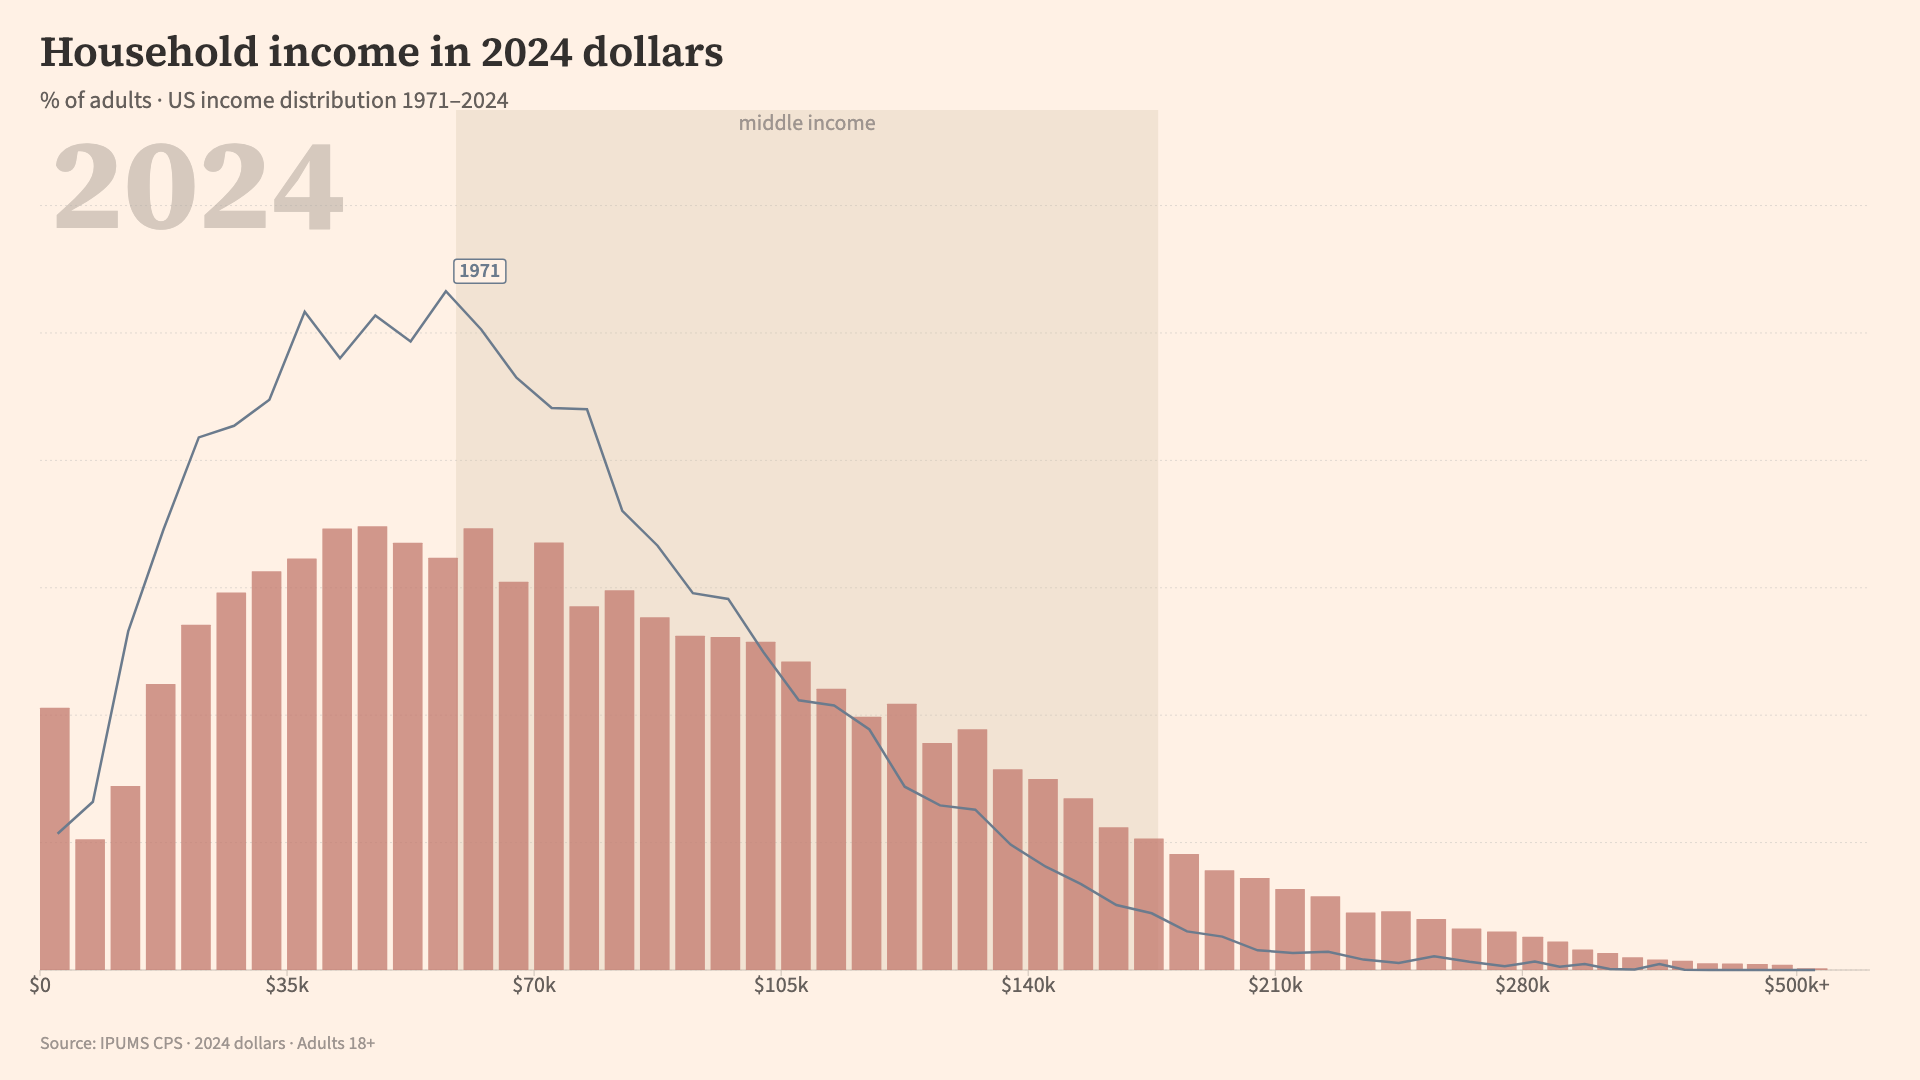
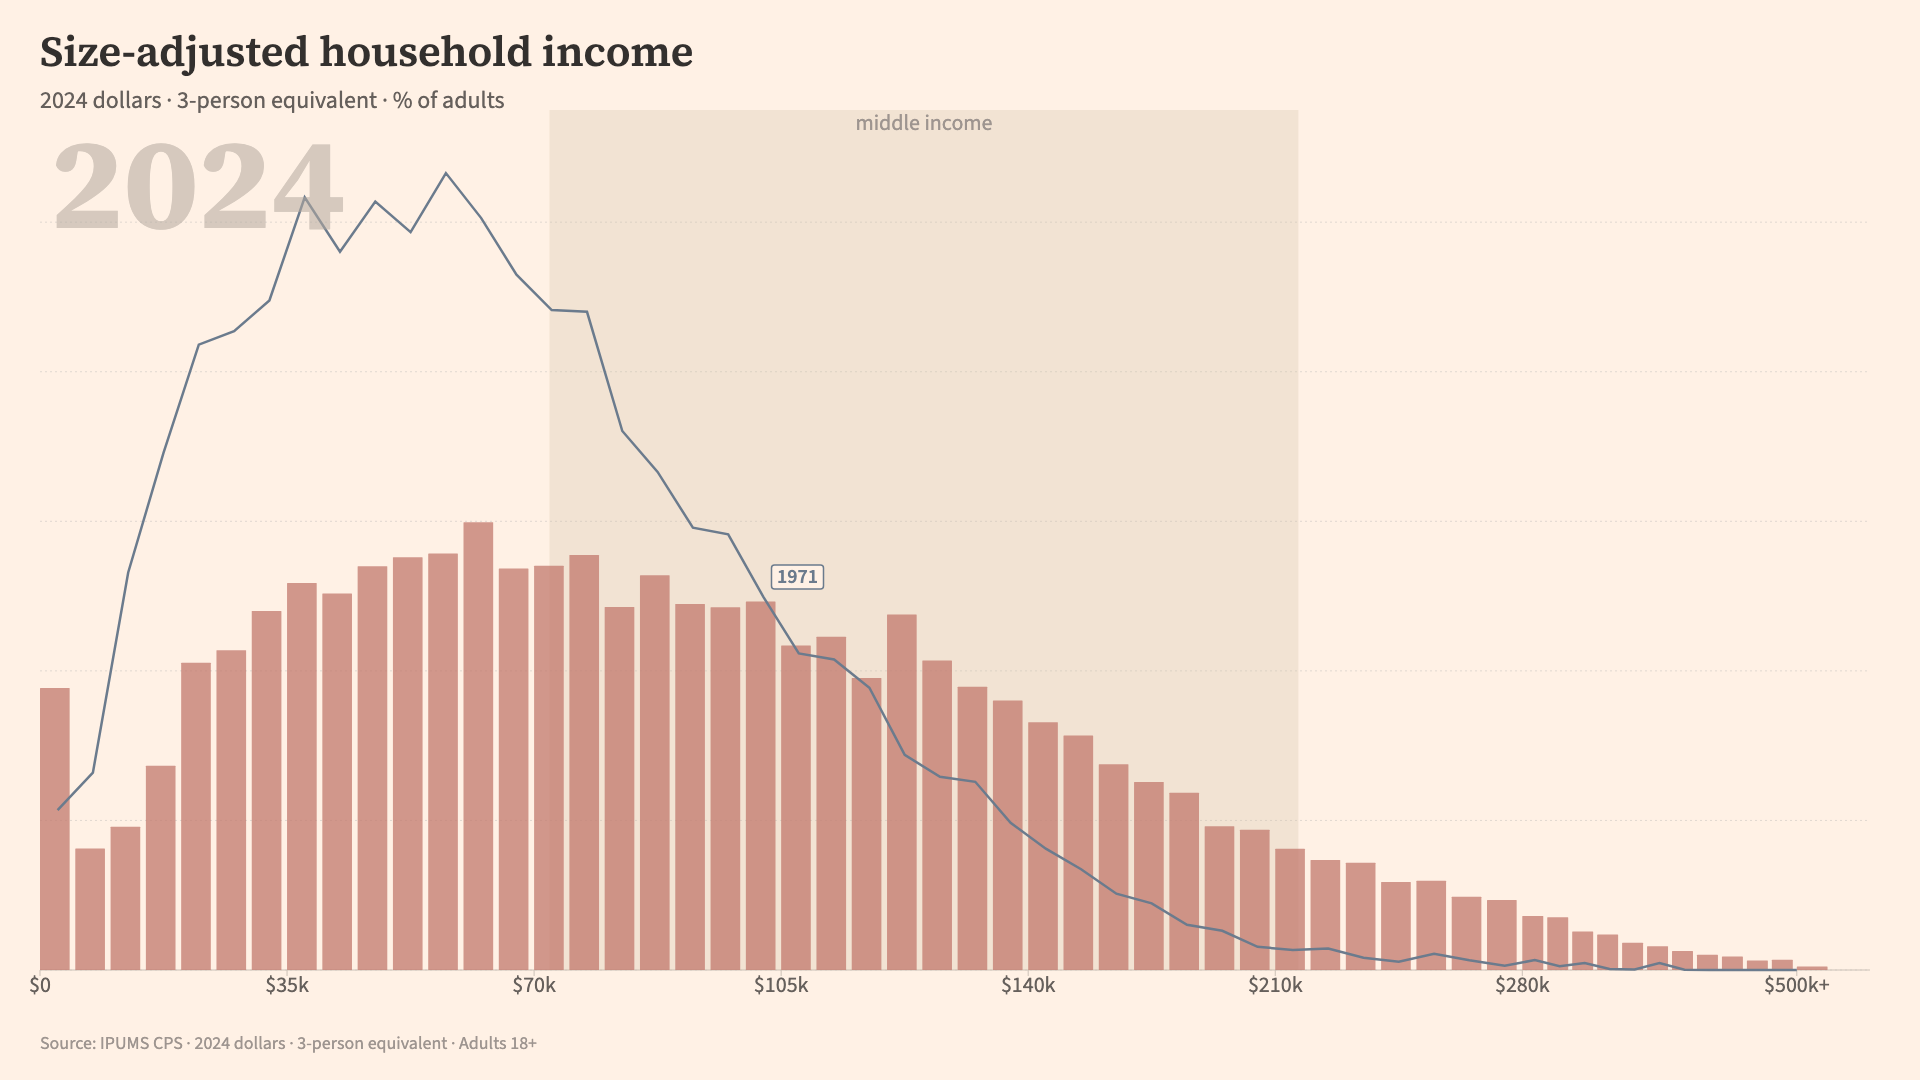
Move 1971 badge to right shoulder of curve, add hero render script
Position the reference line badge at the 50%-of-peak point on the
descending side of the curve so it clears the year watermark in
square and vertical formats. Add render-heroes.ts script and
CLAUDE.md workflow note to regenerate hero images after layout changes.

diff --git a/video/src/components/ReferenceLine.tsx b/video/src/components/ReferenceLine.tsx
@@ -40,10 +40,20 @@ export const ReferenceLine: React.FC<Props> = ({
 
   const clipRight = dim.margin.left + progress * dim.innerW;
 
-  // Badge position: lerp from drawing edge to peak as progress increases
+  // Badge position: right shoulder of the curve (where density drops to ~50% of peak
+  // on the descending side) — clears the year watermark in the upper-left.
   const peakIdx = lineDensities.indexOf(Math.max(...lineDensities));
-  const peakX = (xPos(binEdges[peakIdx]) + xPos(binEdges[peakIdx + 1])) / 2;
-  const peakY = yPos(lineDensities[peakIdx]);
+  const peakDensity = lineDensities[peakIdx];
+  let shoulderIdx = peakIdx;
+  for (let i = peakIdx + 1; i < lineDensities.length; i++) {
+    if (lineDensities[i] < peakDensity * 0.5) {
+      shoulderIdx = i;
+      break;
+    }
+  }
+  const shoulderX =
+    (xPos(binEdges[shoulderIdx]) + xPos(binEdges[shoulderIdx + 1])) / 2;
+  const shoulderY = yPos(lineDensities[shoulderIdx]);
 
   const lastVisibleBin = Math.min(
     Math.floor(progress * (lineDensities.length - 1)),
@@ -52,10 +62,13 @@ export const ReferenceLine: React.FC<Props> = ({
   const edgeX = (xPos(binEdges[lastVisibleBin]) + xPos(binEdges[lastVisibleBin + 1])) / 2;
   const edgeY = yPos(lineDensities[lastVisibleBin]);
 
-  // Smooth transition: once peak is drawn (~40%), start blending toward peak position
-  const peakDrawn = Math.min(1, Math.max(0, (progress - 0.4) / 0.4));
-  const badgeCenterX = lerp(edgeX, peakX, peakDrawn);
-  const badgeCenterY = lerp(edgeY, peakY, peakDrawn);
+  // Smooth transition: once shoulder bin is drawn, start blending toward shoulder
+  const shoulderDrawn = Math.min(
+    1,
+    Math.max(0, (progress - 0.4) / 0.4),
+  );
+  const badgeCenterX = lerp(edgeX, shoulderX, shoulderDrawn);
+  const badgeCenterY = lerp(edgeY, shoulderY, shoulderDrawn);
 
   const labelW = 52;
   const labelH = 24;

diff --git a/video/render-heroes.ts b/video/render-heroes.ts
@@ -1,0 +1,47 @@
+#!/usr/bin/env bun
+
+import { bundle } from "@remotion/bundler";
+import { renderStill, selectComposition } from "@remotion/renderer";
+import path from "path";
+import fs from "fs";
+
+const OUTPUT_DIR = path.resolve("../output");
+
+const HEROES = [
+  { composition: "landscape", frame: 449, name: "hero-landscape.png" },
+  { composition: "landscape", frame: 89, name: "hero-1971.png" },
+];
+
+async function main() {
+  fs.mkdirSync(OUTPUT_DIR, { recursive: true });
+
+  console.log("Bundling...");
+  const bundleLocation = await bundle({
+    entryPoint: path.resolve("./src/index.ts"),
+  });
+  console.log("Bundle ready.\n");
+
+  for (const { composition: id, frame, name } of HEROES) {
+    const composition = await selectComposition({
+      serveUrl: bundleLocation,
+      id,
+    });
+
+    const outPath = path.join(OUTPUT_DIR, name);
+    console.log(`Rendering ${name} (${id} frame ${frame})...`);
+    await renderStill({
+      composition,
+      serveUrl: bundleLocation,
+      output: outPath,
+      frame,
+    });
+    console.log(`  Done: ${outPath}`);
+  }
+
+  console.log("\nAll hero images rendered.");
+}
+
+main().catch((err) => {
+  console.error(err);
+  process.exit(1);
+});

diff --git a/CLAUDE.md b/CLAUDE.md
@@ -18,3 +18,7 @@ Credible, clear, understated.
 3. **Readable at a glance, rich on inspection** — The main story (distribution shift over 50 years) should land in 3 seconds. Stats, controls, and methodology reward closer reading.
 4. **Typographic hierarchy** — Use weight, size, and font family (serif for emphasis, sans for data) to guide the eye. Avoid color as the primary hierarchy tool.
 5. **Warmth without personality** — The palette should feel approachable and high-quality (not cold/corporate, not playful/branded). Academic confidence.
+
+### Workflow
+
+After any layout or visual change, regenerate the hero images used in the README: `cd video && bun run render:heroes`. This renders stills from the Remotion compositions into `output/hero-*.png`.
